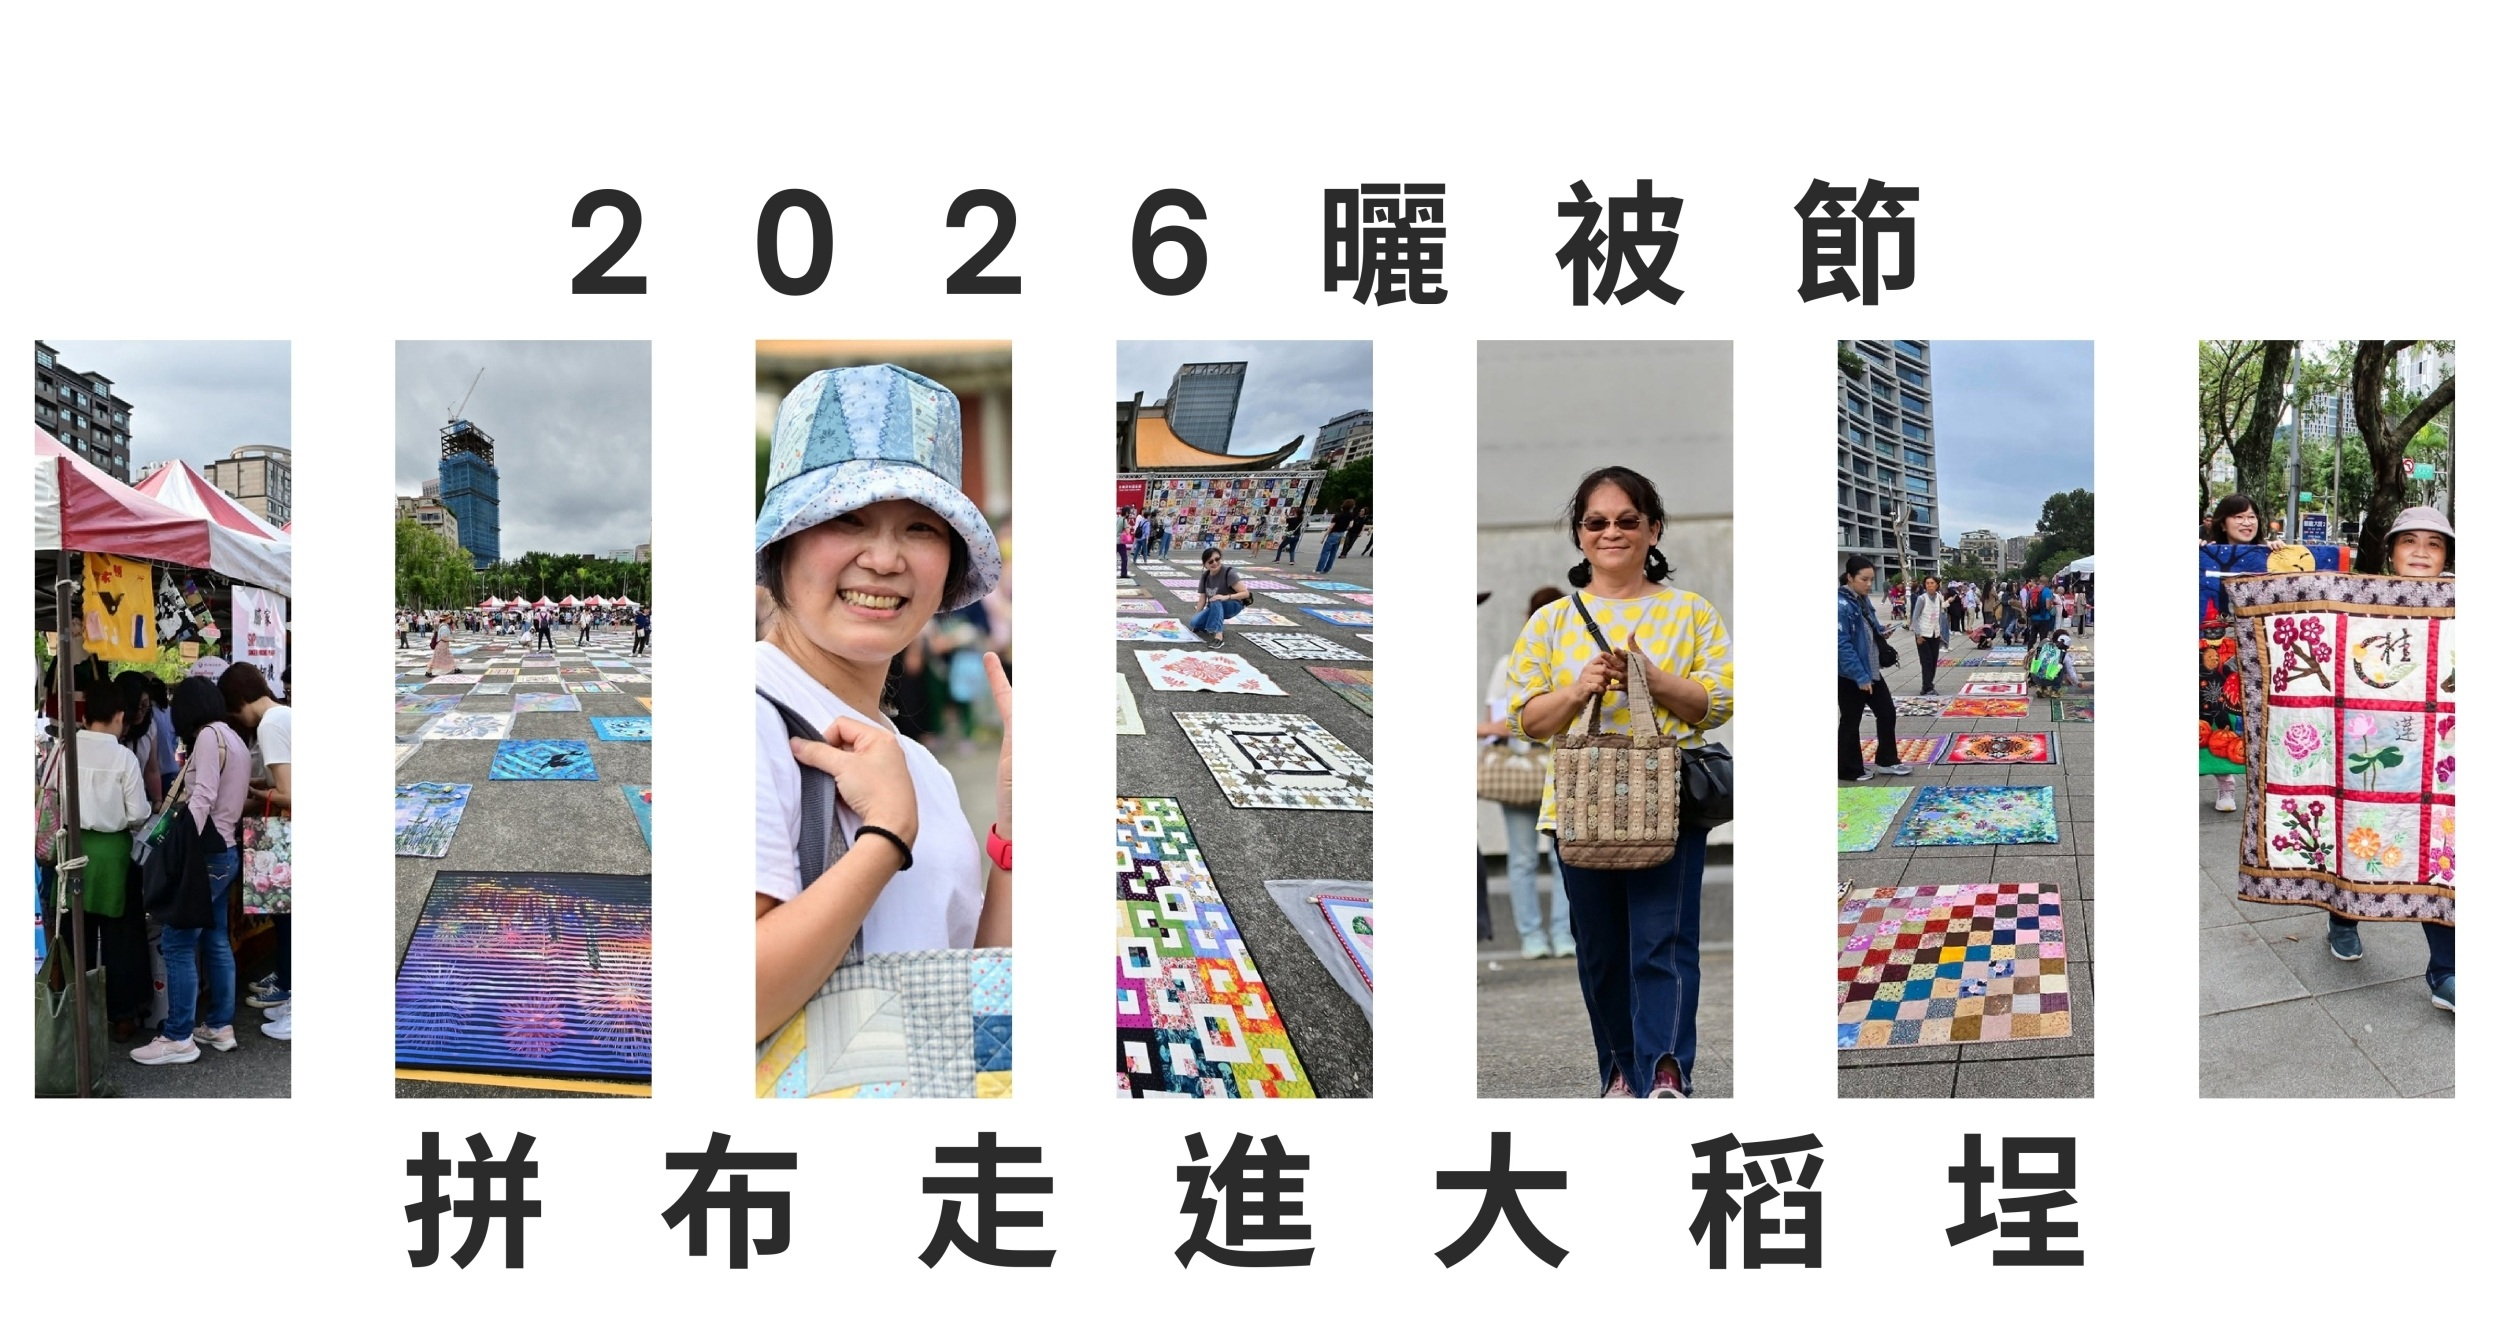
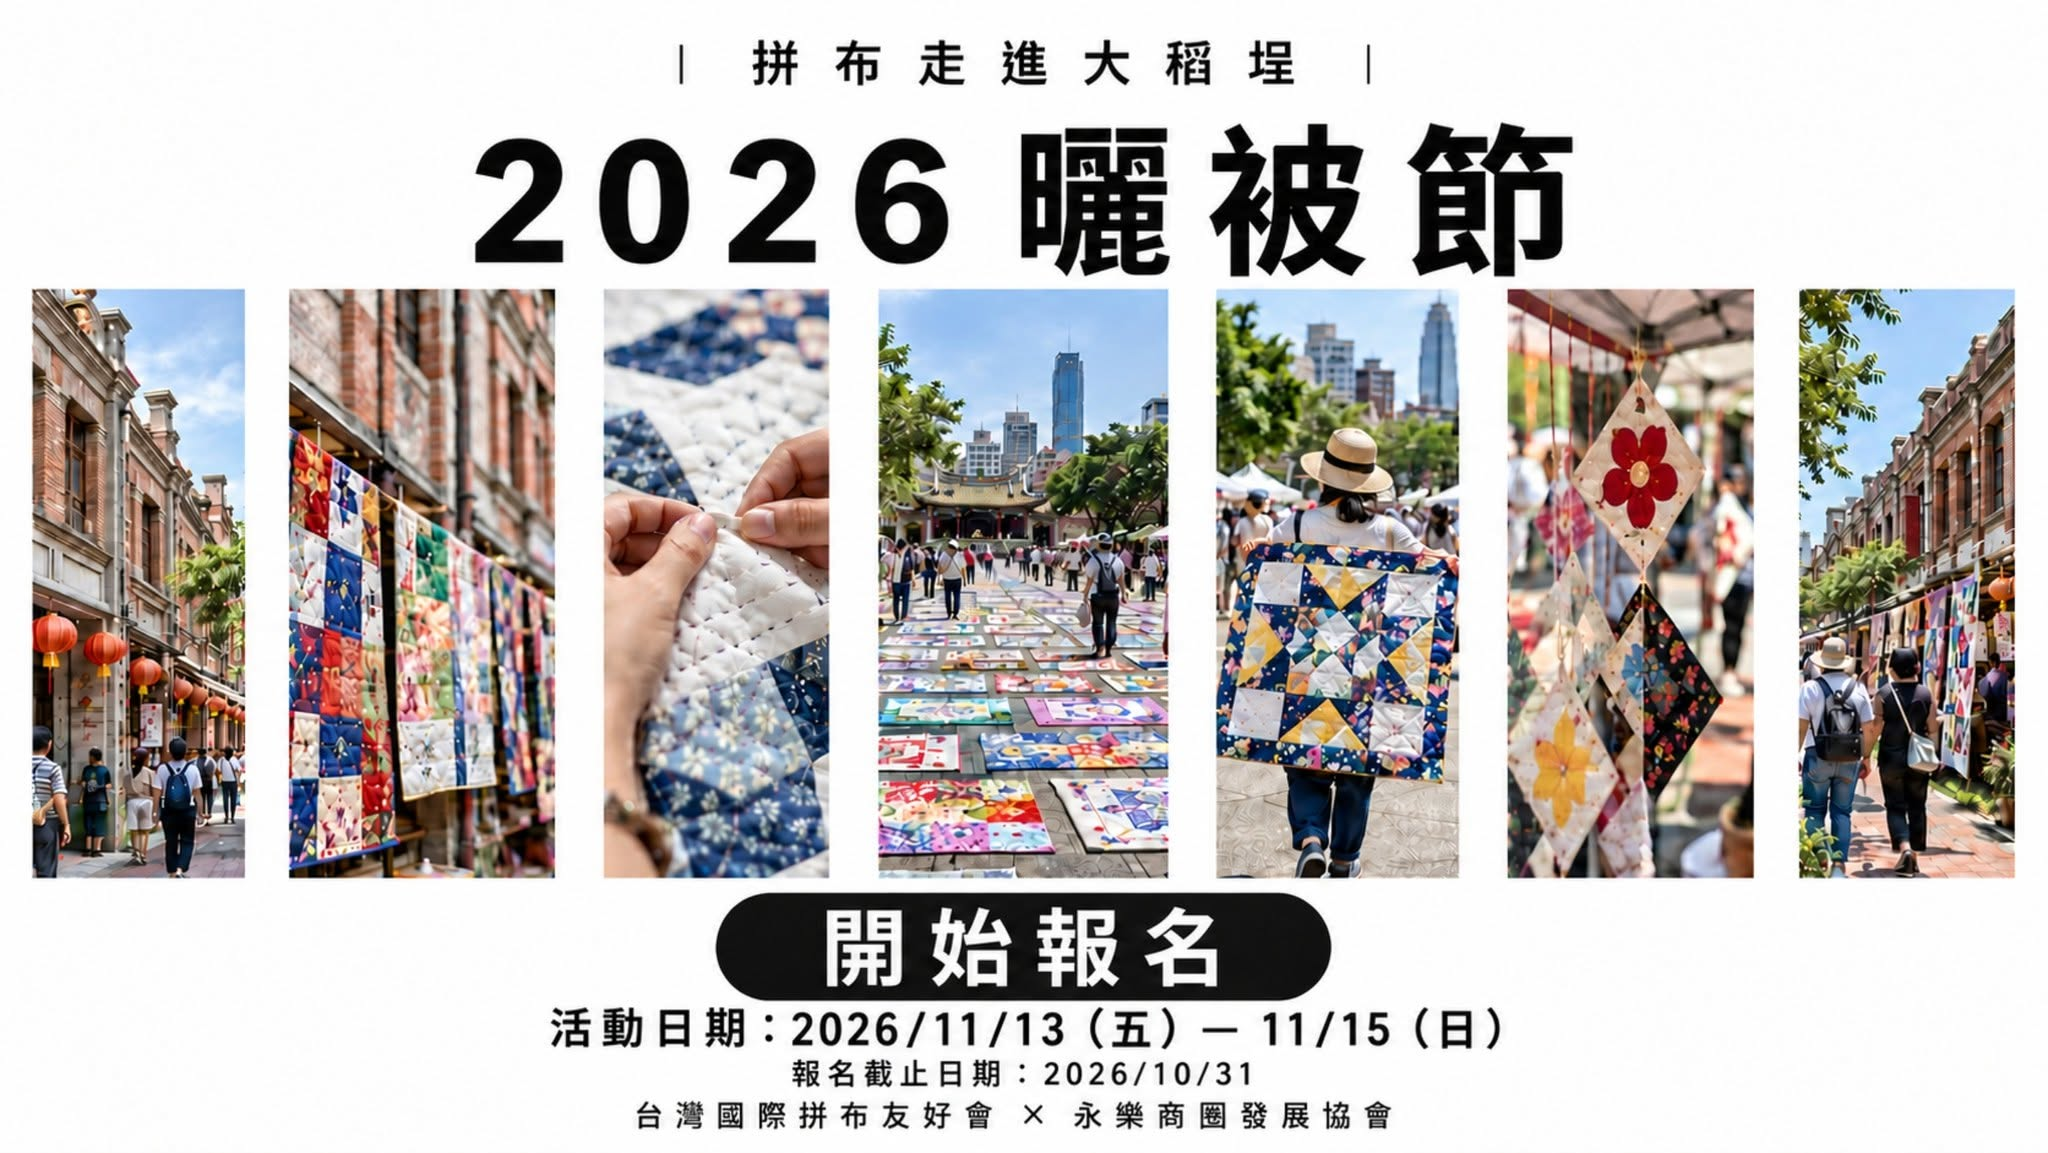
news modify

diff --git a/news/news-data.js b/news/news-data.js
@@ -10,99 +10,68 @@ const newsData = [
         category: "展覽活動",
         image: "./20260906.jpg",
         description: "第九屆曬被節以「拼布走進大稻埕」串聯創作、街區與手作交流", 
-        content: `自 2018 年起，曬被節由台灣不同城市的拼布老師接力主辦，至今已邁入第九屆。2025 年起，由台灣國際拼布友好會接續承辦，延續讓拼布作品走出教室、展場與家中，進入公共空間與人群相遇的精神。
+        content: `【#2026曬被節｜拼布走進大稻埕】開始報名了！！！
 
-2026 年第九屆曬被節將以「拼布走進大稻埕」為主題，由 台灣國際拼布友好會與永樂商圈發展協會共同主辦，並在臺北市商業處輔導下，於 2026 年 11 月 13 日至 11 月 15 日 在 迪化街永樂廣場及大稻埕碼頭廣場 舉行。 
+從 2018 年開始，曬被節由台灣不同城市的拼布老師接力主辦。2025 年起，由台灣國際拼布友好會接續承辦。
 
-本屆活動由台灣國際拼布友好會負責整體企劃與拼布內容規劃，永樂商圈發展協會協助場地協調、在地資源整合及商圈串聯，使活動得以結合永樂市場、迪化街與大稻埕街區特色，讓拼布作品從教室、展場走入公共空間。
+從一座城市到另一座城市，曬被節陪著拼布人走到今天，已經邁入第九屆了。
 
-2026 曬被節為期三天。11 月 13 日、11 月 14 日活動重點於永樂廣場展開，包含拼布市集、手作材料市集、創作者交流、小型曬被展示、記者會、媒體拍攝及走秀或互動活動；11 月 15 日則為曬被作品主場，於大稻埕碼頭廣場報到集結，進行曬被展示、作品交流、拍照及拼布遊行。實際時間與活動內容將配合永樂商圈發展協會整體安排略作調整，完整流程將由主辦單位後續公告。
+今年，2026 曬被節將以 「拼布走進大稻埕」 為主題，於 2026 年 11 月 13 日（五）至 11 月 15 日（日） 舉行，活動地點為 迪化街永樂廣場、大稻埕碼頭廣場。
 
-台灣國際拼布友好會表示，曬被節不只是作品展示，更是一年一次屬於拼布人的相聚。每一年的曬被節，都有當年度才會出現的作品、相遇的人與留下的畫面。也正因為每一次相聚都不會重來，主辦單位希望透過作品募集，邀請更多創作者把作品帶出來，讓曬被節一年一年延續下去。
+今年也很開心能與 永樂商圈發展協會共同主辦，並在 臺北市商業處輔導 下，結合永樂市場、迪化街與大稻埕街區特色，讓拼布作品走出教室、展場與家裡，來到城市街區與更多人相遇。
 
-本屆曬被節前一階段已展開「拼布接力創作計畫」，預計已有 96 件作品加入曬被行列。主辦單位也同步開放募集 100 × 100 公分拼布作品，邀請更多拼布創作者將親手完成、願意分享的作品帶到大稻埕，成為 2026 年精彩的拼布風景。
- 
-「曬被作品募集」主場活動將於 11 月 15 日（日） 舉行，報名者當日上午於大稻埕碼頭廣場報到集結，參與曬被展示、作品觀摩交流與拍照，並於下午拿著拼布作品遊行至迪化街、永樂市場及永樂廣場。
+這是屬於我們的一期一會。
 
-作品規格為 100 × 100 公分，須為拼布作品，具備表布、鋪棉、裡布三層結構並完成壓線，有無包邊皆可。曬被作品募集採付費報名制，報名費將作為活動現場硬體設備、展示相關物資及文宣印刷等支出使用。相關報名費用與報名方式，請以主辦單位公告及報名表單為準。已報名參加「拼布接力創作計畫」者，已完成曬被活動報名，無須再次填寫表單或繳交報名費。
+每一年的曬被節，都有那一年才會出現的作品、那一年才會相遇的人，以及那一年才會留下的畫面。
 
-除曬被作品募集外，本屆活動也規劃「拼布手作・創作走秀」，邀請創作者穿戴或攜帶親手製作的拼布服飾、手作配件、拼布包包或纖維工藝作品參與，以動態形式呈現拼布與手作在生活中的多元樣貌。
+如果您也是拼布人，這場相聚就不只是別人的活動，而是與您有關的一天。
 
-延續 2025 友好拼布手作節的「愛的零錢包」活動，今年也將持續舉辦「交換禮物－愛的零錢包｜公益募集」。參加者可免費參與，親手製作長、寬皆介於 7 至 15 公分、可正常使用的小零錢包，於活動現場展示與交換。活動結束後，現場留下的零錢包將由台灣國際拼布友好會統一整理，捐贈公益單位作為義賣募集善款使用。
+一件作品，就是一份參與；
+一次報名，就是把自己放進這一年的曬被節裡。
 
-主辦單位表示，2026 曬被節雖以拼布創作者為核心，但活動同樣歡迎非拼布創作者到場參觀。只要對拼布、手作、縫紉、纖維工藝或街區文化有興趣，都可以免費到大稻埕參觀市集、欣賞作品、觀看走秀，感受拼布與手作創作的多元樣貌。
+🎯本次活動共有三大募集／報名項目：
 
-誠摯邀請大家共同參與 2026 曬被節。不論是新作、舊作，或是一件一直捨不得收起來的作品，只要是親手完成、願意分享出來的拼布，都歡迎在今年帶到大稻埕；也歡迎更多朋友走進大稻埕，一起參與這場屬於拼布、手作與街區的年度活動。
+1⃣ 2026 曬被作品募集
+曬被主場為 11 月 15 日（日）大稻埕碼頭廣場。
+募集 100 × 100 cm 拼布作品，歡迎新作、舊作，或一直捨不得收起來的那一件，一起來到大稻埕。
 
-活動資訊
-活動名稱：2026 曬被節｜第九屆曬被節
-活動主題：拼布走進大稻埕
-活動日期：2026 年 11 月 13 日（五）至 11 月 15 日（日）
-活動地點：迪化街永樂廣場、大稻埕碼頭廣場
+2⃣ 拼布手作・創作走秀
+免費報名參加。
+歡迎穿戴或攜帶親手製作的拼布服飾、手作配件、拼布包包或纖維工藝作品參與走秀。
+走秀地點：永樂廣場
 
-11 月 15 日曬被作品集合報到地點：大稻埕碼頭廣場 
-報名活動表單：https://forms.gle/G2TnyimmSFQQ4xmq6
+3⃣ 交換禮物－愛的零錢包｜公益募集
+免費報名參加。
+歡迎親手製作 7-15 cm 的小零錢包，參與現場展示、交換與公益募集。
 
-主辦單位：台灣國際拼布友好會、永樂商圈發展協會
-協辦單位：台北迪化商圈發展促進會、大稻埕創意街區發展協會、永樂布業商場二樓自治會、永樂布業商場三樓自治會
-輔導單位：臺北市商業處
+2026 曬被節雖以拼布創作者為核心，但也非常歡迎所有對拼布、手作、縫紉、纖維工藝或街區文化有興趣的朋友，到場免費參觀、逛市集、看作品、看走秀。
 
-活動聯繫人
-郭芷廷
-02-2654-8287 / 0936-904-522
-台灣國際拼布友好會官網
-https://tiqa.org.tw/
+不管是新作、舊作，還是一直捨不得收起來的那一件，今年都請把它帶到大稻埕。
 
+只要那是您親手完成、願意分享出來的作品，就值得在這一天來到大稻埕，成為 2026 年精彩的拼布風景。
 
+🔥【報名活動】請填寫google表單👉 https://forms.gle/G2TnyimmSFQQ4xmq6
 
-Press Release
+🎯完整活動資訊及流程 👉 https://ppt.cc/feCBJx
 
-2026 Quilt Airing Festival Opens for Registration
-The 8th Quilt Airing Festival Brings “Quilts Come to Dadaocheng” to Taipei’s Historic Textile District
+台灣國際拼布友好會官網 👉 https://tiqa.org.tw/
 
-Taipei, Taiwan - Since 2018, the Quilt Airing Festival has been organized in relay by quilting teachers from different cities across Taiwan. Now entering its eighth edition, the festival has been continued by the Taiwan International Quilt Association since 2025, carrying forward the spirit of bringing quilts out of classrooms, exhibition halls, and homes into public spaces where they can meet people.
+主辦單位｜台灣國際拼布友好會、永樂商圈發展協會
+協辦單位｜台北迪化商圈發展促進會、大稻埕創意街區發展協會、永樂布業商場二樓自治會、永樂布業商場三樓自治會
+輔導單位｜臺北市商業處
 
-The 8th Quilt Airing Festival 2026 will be held under the theme “Quilts Come to Dadaocheng.” The event is jointly organized by the Taiwan International Quilt Association and the Yongle Commercial District Development Association, with guidance from the Department of Commerce, Taipei City Government. It will take place from November 13 to November 15, 2026, at Yongle Plaza on Dihua Street and Dadaocheng Wharf Plaza.
-
-For this year’s event, the Taiwan International Quilt Association is responsible for overall event planning and quilting-related programming, while the Yongle Commercial District Development Association supports venue coordination, local resource integration, and commercial district connections. Through this collaboration, the festival connects Yongle Market, Dihua Street, and the broader Dadaocheng neighborhood, allowing quilt works to move from classrooms and exhibition spaces into the public realm.
-
-The 2026 Quilt Airing Festival will run for three days. On November 13 and 14, activities will center around Yongle Plaza, including a quilt market, handmade materials market, creator exchanges, a small-scale quilt airing display, press event, media photo opportunities, fashion show, and interactive activities. On November 15, the main quilt airing program will take place at Dadaocheng Wharf Plaza, where registered participants will gather for quilt airing, creator exchange, photography, and a quilt parade. The schedule may be adjusted slightly in coordination with the overall arrangements of the Yongle Commercial District Development Association, and the final program will be announced later by the organizers.
-
-According to the Taiwan International Quilt Association, the Quilt Airing Festival is not only about displaying quilt works, but also about creating an annual gathering for quilters. Each year brings works, encounters, and memories that can only happen in that particular year. Because every gathering is unique, the organizers hope to invite more creators to bring their works out and help the festival continue year after year.
-
-Earlier this year, the festival launched the “Collaborative Quilt Relay Project,” with an estimated 96 quilt works expected to join the quilt airing program. The organizers are also opening registration for additional 100 × 100 cm quilt works, inviting more quilt creators to bring handmade pieces they are willing to share to Dadaocheng, becoming part of the colorful quilt landscape of 2026.
-
-The main “Quilt Airing Works Registration” program will be held on Sunday, November 15. Registered participants will check in and gather at Dadaocheng Wharf Plaza in the morning, join the quilt airing display, enjoy viewing and exchange among works, take photos, and later parade with their quilts to Dihua Street, Yongle Market, and Yongle Plaza.
-
-Submitted quilt works should measure 100 × 100 cm and must be quilted textile works with a three-layer structure: quilt top, batting, and backing. Quilting must be completed, while binding is optional. Registration for quilt airing works is fee-based, and the fees will be used for on-site equipment, display-related materials, promotional printing, and other event expenses. Registration fees and methods are subject to the organizers’ official announcements and registration form. Participants already registered for the Collaborative Quilt Relay Project are considered registered for the quilt airing activity and do not need to submit another form or pay an additional fee.
-
-In addition to quilt airing, this year’s festival will also feature a Handmade Quilt Fashion Show, inviting creators to wear or carry handmade quilted garments, accessories, bags, or fiber art pieces. Through this dynamic presentation, the show highlights the diverse ways quilting and handmade textile works can become part of everyday life.
-
-Continuing the “Coin Pouch of Love” activity from the 2025 Friendship Quilt & Handmade Festival, this year’s event will again include the “Gift Exchange: Coin Pouch of Love | Charity Collection.” Participants may join free of charge by making a usable handmade coin pouch measuring between 7 and 15 cm in both length and width. The coin pouches will be displayed and exchanged during the event. After the festival, any remaining coin pouches will be collected by the Taiwan International Quilt Association and donated to a charity organization for fundraising sales.
-
-The organizers note that while the 2026 Quilt Airing Festival centers on quilt creators, the event also welcomes visitors who are not quilters. Anyone interested in quilting, handmade crafts, sewing, fiber art, or local culture is welcome to visit Dadaocheng free of charge, explore the market, view the works, watch the fashion show, and experience the rich creative expressions of quilting and handmade textile art.
-
-The Taiwan International Quilt Association warmly invites everyone to take part in the 2026 Quilt Airing Festival. Whether new or old, a work recently completed or one long kept with care, any handmade quilt that its creator is willing to share is welcome in Dadaocheng this year. Visitors are also invited to join this annual gathering of quilting, handcraft, and historic streetscape culture.
-
-Event Information
-
-Event Name: 2026 Quilt Airing Festival | 8th Quilt Airing Festival
-Theme: Quilts Come to Dadaocheng
-Dates: November 13-15, 2026
-Venues: Yongle Plaza on Dihua Street, Dadaocheng Wharf Plaza
-Check-in Location for Quilt Airing Participants on November 15: Dadaocheng Wharf Plaza
-Registration Form: https://forms.gle/G2TnyimmSFQQ4xmq6
-
-Organizers: Taiwan International Quilt Association, Yongle Commercial District Development Association
-Co-organizers: Taipei Dihua Commercial District Development Association, Dadaocheng Creative District Development Association, Yongle Textile Market 2F Self-Governance Association, Yongle Textile Market 3F Self-Governance Association
-Guidance: Department of Commerce, Taipei City Government
-
-Contact
-Chih-Ting Kuo
-02-2654-8287 / 0936-904-522
-
-Taiwan International Quilt Association Official Website
-https://tiqa.org.tw/`,
+#2026曬被節
+#第九屆曬被節
+#拼布走進大稻埕
+#台灣國際拼布友好會
+#永樂商圈發展協會
+#大稻埕
+#迪化街
+#永樂市場
+#拼布
+#手作
+#縫紉
+#纖維工藝`,
         links: [
             {
                 label: "活動報名表",
